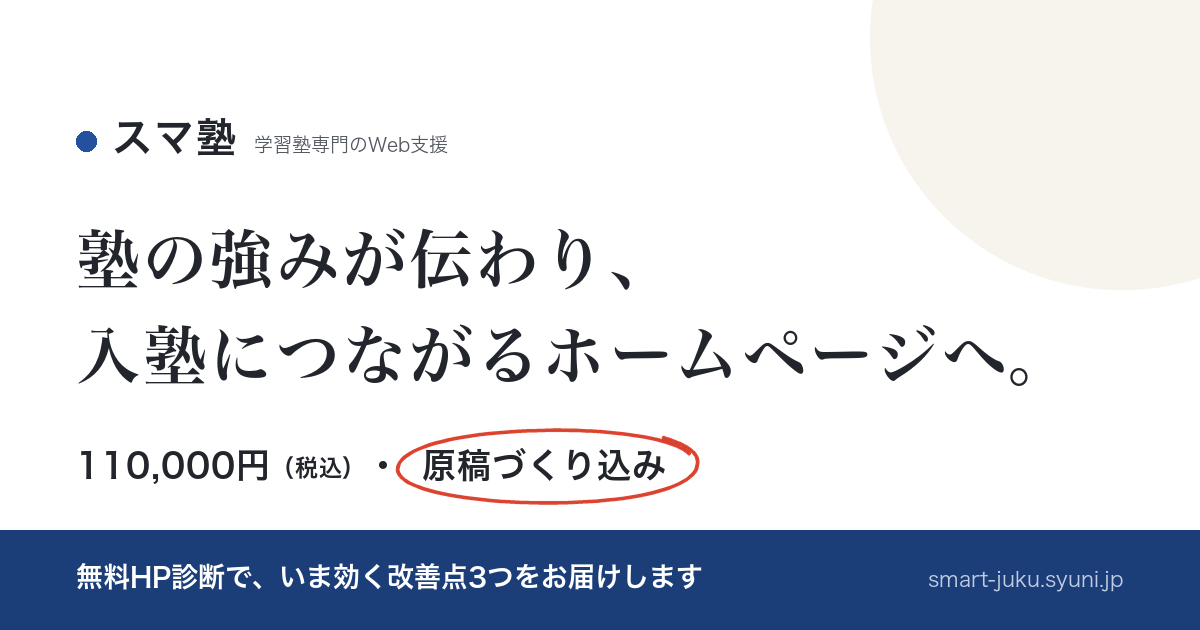
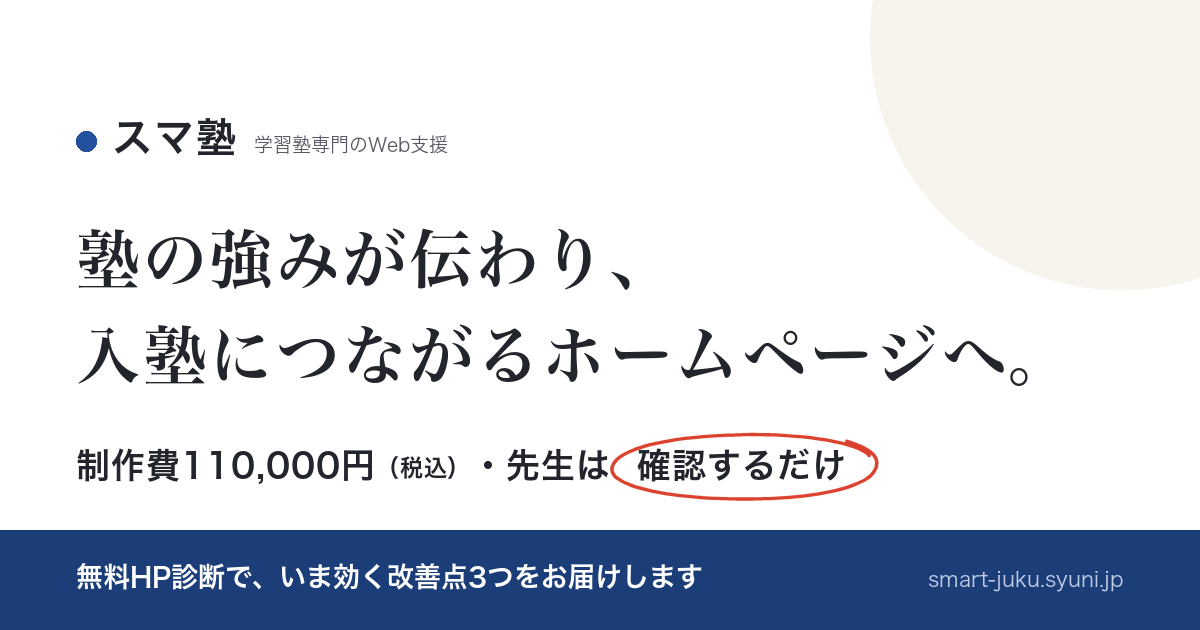
LP: 何が11万円かを明示し、面談で話す内容（先生は確認するだけ・やることは3つ）を料金に入れる
- ヒーロー：制作費110,000円（税込・はじめに一度だけ）＋「先生は確認するだけ」に赤ペンの丸
- 担当者の面：根拠を下寄せにして人物の下端にそろえる
- 料金：①制作費（主）→②公開の翌月から保守（従）の順に。こちらでやること／先生がやること3つ
- 事例：件数の言い方をやめ、デザイン3型の節を削除。OGP画像も作り直し

Changed region(s): [[0.0617, 0.6635, 0.74, 0.8143]]

diff --git a/scripts/make_ogp_top.py b/scripts/make_ogp_top.py
@@ -10,7 +10,7 @@
 DESIGN.md の規約に従う：
   - 地色は白。クリーム（--paper）は「面」にだけ使う（右上の円）
   - 見出しは明朝、本文・ラベルはゴシック（make_ogp.py と同じヒラギノ）
-  - 赤ペン（--akapen）は「原稿づくり込み」の丸つけ1か所だけ。装飾に使わない（2026-10-31 料金改定で「月額保守費0円」から移した）
+  - 赤ペン（--akapen）は「確認するだけ」の丸つけ1か所だけ。装飾に使わない（2026-10-31 料金改定で「月額保守費0円」から移した）
   - 蛍光マーカーは本文中の限定強調のみ。見出しには使わない（旧OGPは使っていた）
 """
 
@@ -194,12 +194,12 @@ def render(out_path: Path = OUT) -> None:
     small_dy = round((p_size - p_size * 0.68) * 0.62)  # 小書きの下端を揃える
 
     x = float(pad)
-    x = _track_text(d, (x, py), "110,000円", f_price, INK, p_track)
+    x = _track_text(d, (x, py), "制作費110,000円", f_price, INK, p_track)
     x = _track_text(d, (x, py + small_dy), "（税込）", f_small, INK, p_size * 0.02)
-    x = _track_text(d, (x, py), "・", f_price, INK, p_track)
+    x = _track_text(d, (x, py), "・先生は", f_price, INK, p_track)
 
-    maru_text = "原稿づくり込み"
-    maru_x0 = x + p_size * 0.62   # 丸が中黒に掛からないよう、.maru の padding より広くとる
+    maru_text = "確認するだけ"
+    maru_x0 = x + p_size * 0.75   # 丸が「は」に掛からないよう、.maru の padding より広くとる
     maru_w = _track_width(d, maru_text, f_price, p_track)
     _track_text(d, (maru_x0, py), maru_text, f_price, INK, p_track)
 

diff --git a/DESIGN.md b/DESIGN.md
@@ -103,7 +103,7 @@ LPの地色は白 `#FFFFFF`。クリーム `#F7F4ED` を敷いてよいのは次
 
 **結論：LPの地色は白 `#FFFFFF` に変更する。クリーム `#F7F4ED` は「面」にだけ使う。**
 クリームを捨てたのではなく、**全面に敷くのをやめて、面の色に格下げした。**
-赤ペンの丸つけ（Signature）は変更なし。価格チップの1か所だけで（2026-10-31 から「原稿づくり込み」。それまでは「月額保守費0円」）、
+赤ペンの丸つけ（Signature）は変更なし。価格の下の一文の1か所だけで（2026-10-31 から「先生は確認するだけ」。それまでは「月額保守費0円」）、
 白地になっても丸つけが一点であることは変わらない。
 
 **ファーストビューの構図（2026-09-04 から標準）**
@@ -114,7 +114,8 @@ LPの地色は白 `#FFFFFF`。クリーム `#F7F4ED` を敷いてよいのは次
   画像は使わず CSS のグラデーションで引く。綴じ側の縦罫1本まで足してよい
 - 面には**担当者の根拠**（Edu-NEWSの登録者数と視聴時間・診断塾数・経歴）と
   **実写の切り抜き**を組む。写真だけを置かない
-- 赤ペンは左の価格チップ「原稿づくり込み」の丸1か所のみ（2026-10-31 料金改定で「月額保守費0円」から移した）
+- 赤ペンは左の「先生は確認するだけ」の丸1か所のみ（2026-10-31。赤ペン＝先生が原稿に丸をつける、の意味に合わせた）
+- 紺の面の根拠（見出し・3行・氏名）は**下寄せ**にして人物の下端にそろえる。ラベル「この人が担当します」だけ上に残す（10/31 小田さん）
 
 **本文の型**
 
@@ -232,9 +233,11 @@ LPは白いカードをほとんど持たず、面とカードの関係を組み
 
 ## 料金は縦積み（2026-09-05）
 
+**制作事例（10/31）**：「2つの塾を作り直しました」のように件数を言わない。デザインの型3つ（凛・陽・盛）の節は、塾ごとに一から作るので削除した。
+
 **2026-10-31 料金改定**：Liteを廃止し、制作は110,000円の1本にした。帯2枚は
 「スマ塾HP制作（制作費110,000円）」と「あんしん保守＋毎月のGA4レポート（月2,200円・最初の12か月は契約いただく）」。
-下の「Lite／Standard」「両プラン」の記述は、この2段に読み替える（2段の価格の書式は同じ・保守を小さく扱わない）。
+**10/31 小田さん：「11万円と2,200円が並ぶと分からない」→ ①はじめに制作費（主）→ ②公開の翌月から保守（従・小さめ `.plan-band--sub`）の順番で見せる。** 下の「両プランで同じ書式」の決まりは、この2段には当てはめない。帯の下に「こちらでやること」「先生がやることは3つだけ」（面談でいつも話す内容）を置く。
 前置きの「どちらも同じHPができます。違いは、素材を出すか、任せるか」は使わない。面の見出しは「制作費に含まれるもの」。
 月額は 2,200円（全塾）／5,500円（更新おまかせ 月1回）／10,780円（同 月4回）の3段。
 
